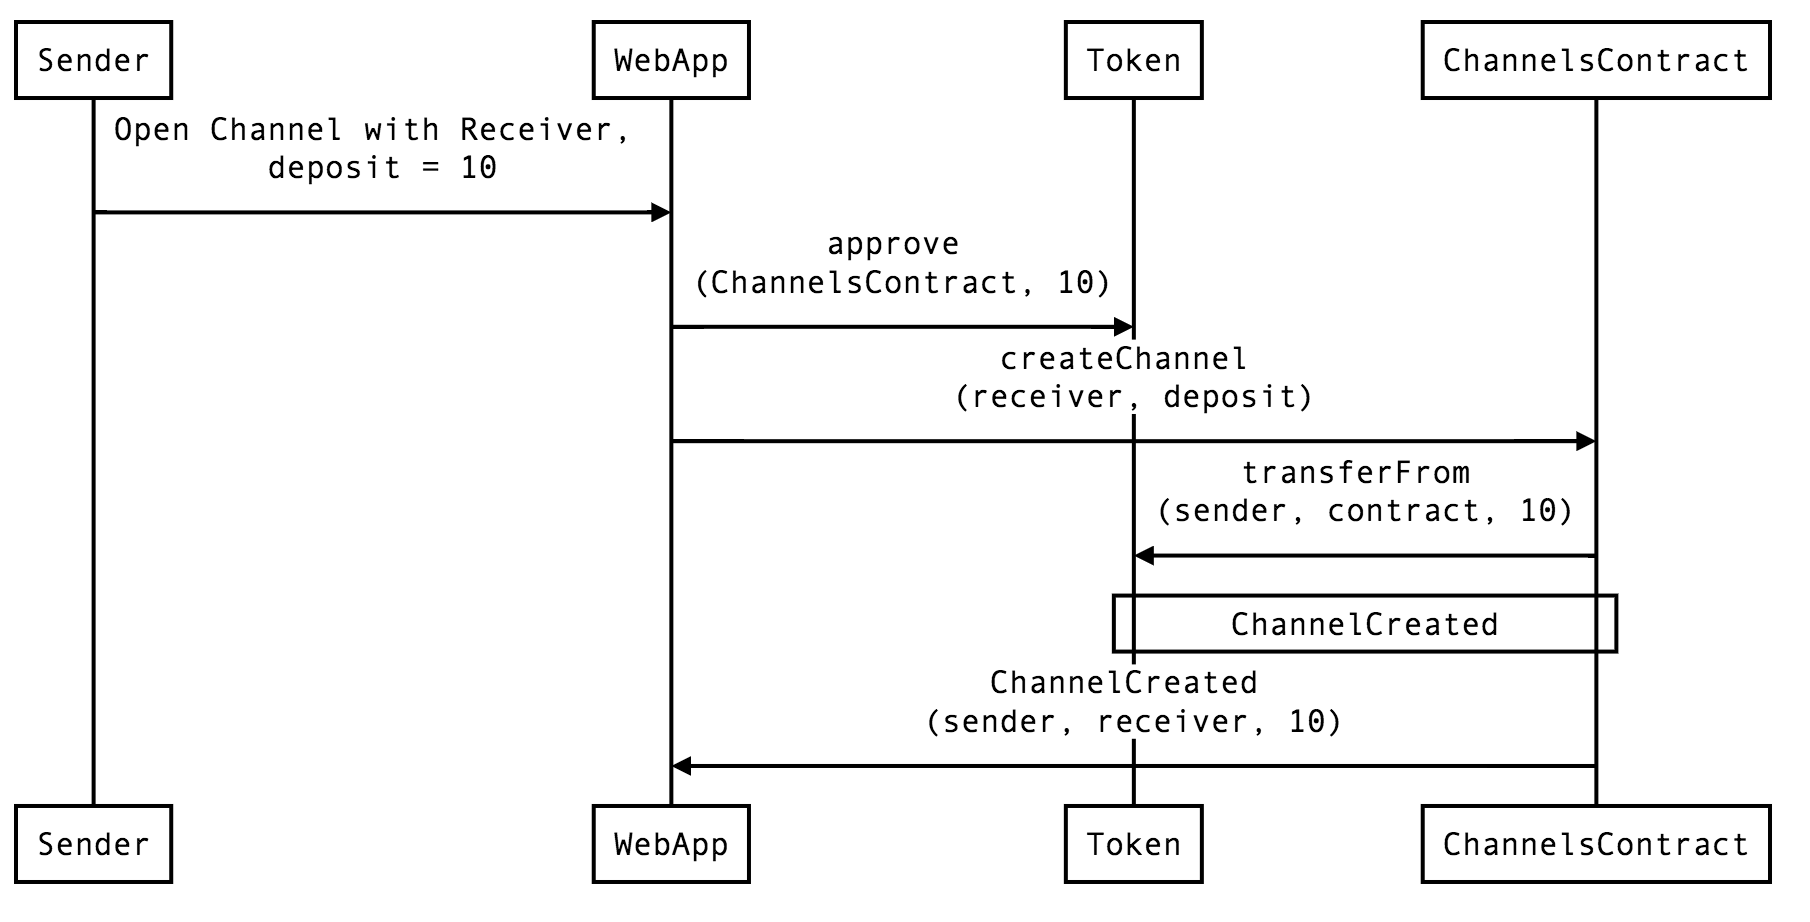
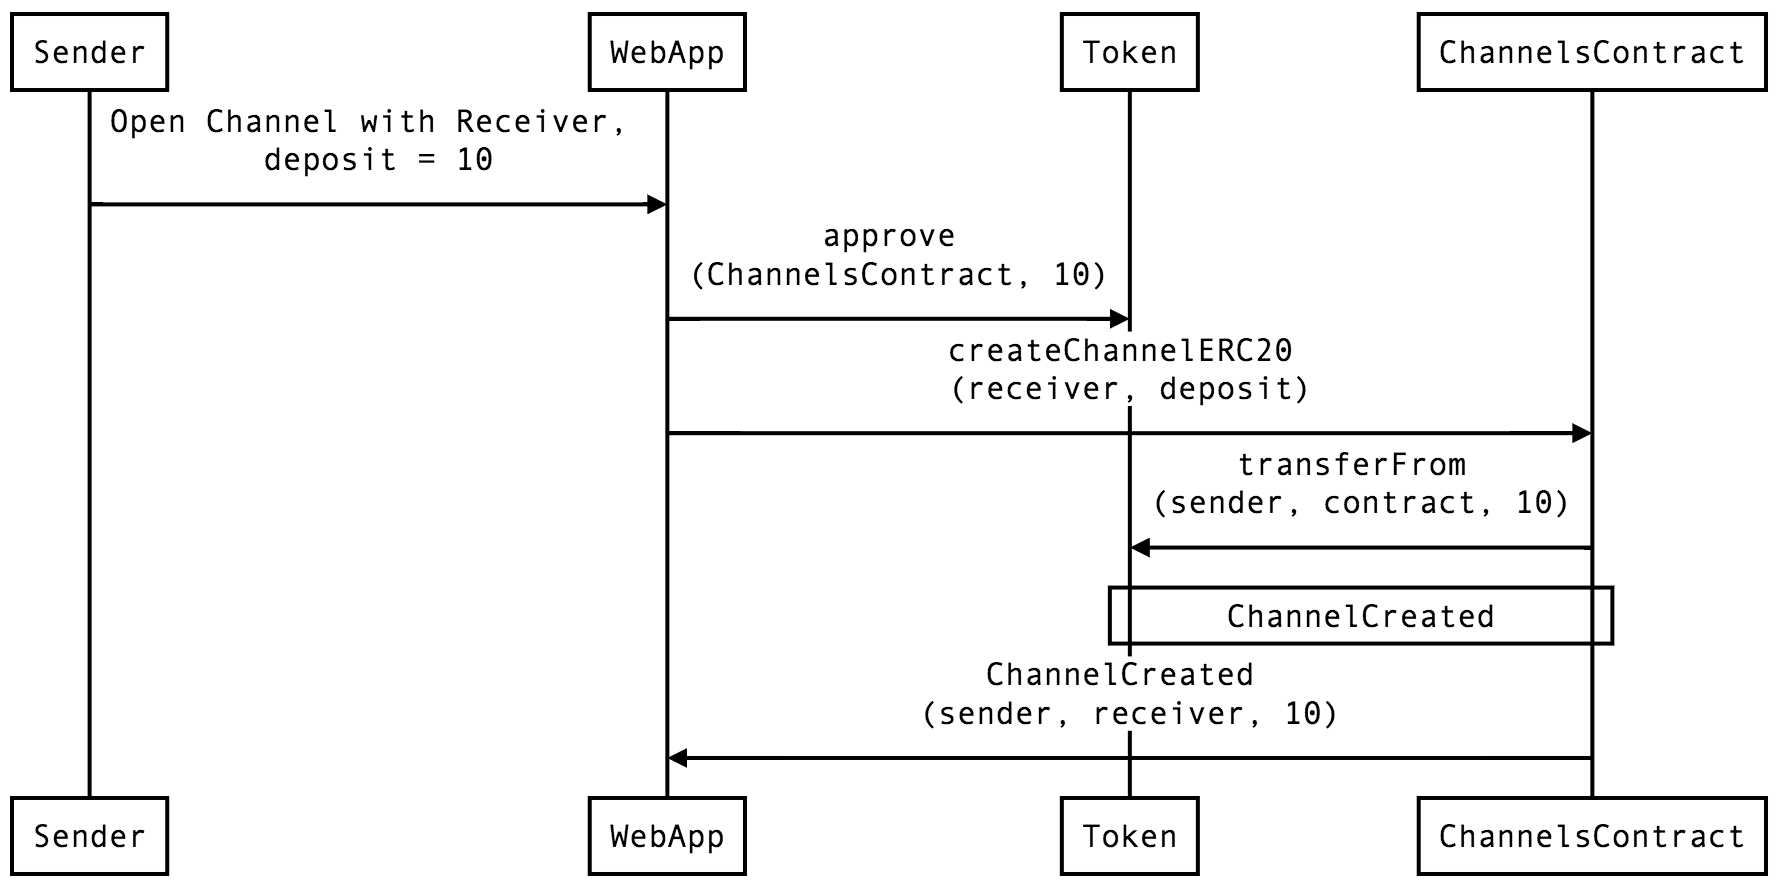
Update contract docs

Changed region(s): [[0.0, 0.0, 1.0, 1.0]]

diff --git a/contracts/docs/RaidenMicroTransferChannels.md b/contracts/docs/RaidenMicroTransferChannels.md
@@ -125,7 +125,7 @@ empty list
 |0|data|bytes32|||
 
 
-#### token_address
+#### owner
 
 Data structures
 
@@ -140,6 +140,23 @@ empty list
 |#  |Param|Type|TypeHint|Description|
 |---|-----|----|--------|-----------|
 |0|return0|address||Data structures|
+
+
+#### token_address
+
+
+
+
+##### Inputs
+
+empty list
+
+
+##### Returns
+
+|#  |Param|Type|TypeHint|Description|
+|---|-----|----|--------|-----------|
+|0|return0|address||token_address|
 
 
 #### verifyBalanceProof
@@ -215,6 +232,20 @@ empty list
 
 |#  |Param|Type|TypeHint|Description|
 |---|-----|----|--------|-----------|
+|0|_sender|address|||
+|1|_receiver|address|||
+|2|_deposit|uint192|||
+
+
+#### createChannelERC20
+
+
+
+
+##### Inputs
+
+|#  |Param|Type|TypeHint|Description|
+|---|-----|----|--------|-----------|
 |0|_receiver|address|||
 |1|_deposit|uint192|||
 
@@ -261,7 +292,36 @@ empty list
 |3|_balance|uint192|||
 
 
+#### tokenFallback
+
+
+
+
+##### Inputs
+
+|#  |Param|Type|TypeHint|Description|
+|---|-----|----|--------|-----------|
+|0|_sender|address|||
+|1|_deposit|uint256|||
+|2|_data|bytes|||
+
+
 #### topUp
+
+
+
+
+##### Inputs
+
+|#  |Param|Type|TypeHint|Description|
+|---|-----|----|--------|-----------|
+|0|_sender|address|||
+|1|_receiver|address|||
+|2|_open_block_number|uint32|||
+|3|_added_deposit|uint192|||
+
+
+#### topUpERC20
 
 
 
@@ -295,7 +355,7 @@ Events
 |2|_deposit|uint192|||
 
 
-#### ChannelTopedUp
+#### ChannelToppedUp
 
 
 
@@ -307,8 +367,8 @@ Events
 |0|_sender|address|||
 |1|_receiver|address|||
 |2|_open_block_number|uint32|||
-|3|_added_depozit|uint192|||
-|4|_depozit|uint192|||
+|3|_added_deposit|uint192|||
+|4|_deposit|uint192|||
 
 
 #### ChannelCloseRequested
@@ -338,6 +398,36 @@ Events
 |0|_sender|address|||
 |1|_receiver|address|||
 |2|_open_block_number|uint32|||
+|3|_balance|uint192|||
+
+
+#### TokenFallback
+
+
+
+
+##### Params
+
+|#  |Param|Type|TypeHint|Description|
+|---|-----|----|--------|-----------|
+|0|_sender|address|||
+|1|_receiver|address|||
+|2|_deposit|uint192|||
+|3|_data|bytes|||
+
+
+#### GasCost
+
+
+
+
+##### Params
+
+|#  |Param|Type|TypeHint|Description|
+|---|-----|----|--------|-----------|
+|0|_function_name|string|||
+|1|_gaslimit|uint|||
+|2|_gas|uint|||
 
 
 
@@ -374,7 +464,6 @@ Events
 |---|-----|----|--------|-----------|
 |0|settle_block_number|uint32|||
 |1|closing_balance|uint192|||
-
 
 
 

diff --git a/contracts/docs/logic.md b/contracts/docs/logic.md
@@ -3,14 +3,41 @@
 
 - _Sender_ = token sender
 - _Receiver_ = token receiver
-- _Contract_ = Raiden MicroTransfer Channels Smart Contract
+- _Contract_ = Raiden MicroTransferChannels Smart Contract
+- _Token_ = RDNToken
+
 
 ## Opening a transfer channel
 
+### ERC223 compatible (recommended)
+
+```
+Token.transfer(_to, _value, _data)
+```
+Sender sends tokens to the Contract, with a payload for calling `createChannel`.
+
+ * `_to` = `Contract.address`
+ * `_value` = deposit value (number of tokens)
+ * `_data` is the equivalent of `msg.data` when calling `createChannel`
+   - in web3.js, `var _data = Contract.createChannel.getData(_sender, _receiver, _deposit);` https://github.com/ethereum/wiki/wiki/JavaScript-API#web3ethcontract
+   - in web3.py
+   ```
+    from ethereum.abi import (
+      ContractTranslator
+    )
+    ct = ContractTranslator(abi)
+    _data = ct.encode('createChannel', [sender, receiver, deposit])
+   ```
+
+![ChannelOpen_ERC223](/contracts/docs/diagrams/ChannelOpen_223.png)
+
+### ERC20 compatible
 
 
 - approve token transfers to the contract from the Sender's behalf:  `Token.approve(contract, deposit)`
-- `Contract.createChannel(receiver, deposit)`
+- `Contract.createChannelERC20(receiver, deposit)`
+
+![ChannelOpen_ERC20](/contracts/docs/diagrams/ChannelOpen_20.png)
 
 
 
@@ -53,3 +80,6 @@ Closing agreement signature verification:
 3. Client calls `Contract.close(receiver, open_block_number, balance, balance_msg_sig)` = settlement period starts
  - a. Receiver calls `Contract.close(receiver, open_block_number, balance, balance_msg_sig)` with the sender's signed balance message = instant close & settle
  - b. Client calls `Contract.settle(receiver, open_block_number)` after settlement period ends
+
+
+![ChannelCycle.png](/contracts/docs/diagrams/ChannelCycle.png)

diff --git a/contracts/README.md b/contracts/README.md
@@ -2,6 +2,26 @@
 
 Smart Contracts, Unittests and Infrastructure for RaidenPaymentChannel Smart Contracts.
 
+## Current addresses
+
+### Kovan
+
+ * RaidenMicroTransferChannels:
+ * RDNToken:
+
+
+### Ropsten
+
+- not yet deployed
+
+
+## API
+
+[RaidenMicroTransferChannels Contract ABI](/contracts/docs/RaidenMicroTransferChannels.md)
+
+[API logic](/contracts/docs/logic.md)
+
+
 ## Installation
 
 The Smart Contracts can be installed separately from the other components of the RaidenMicroTransferChannels App.
